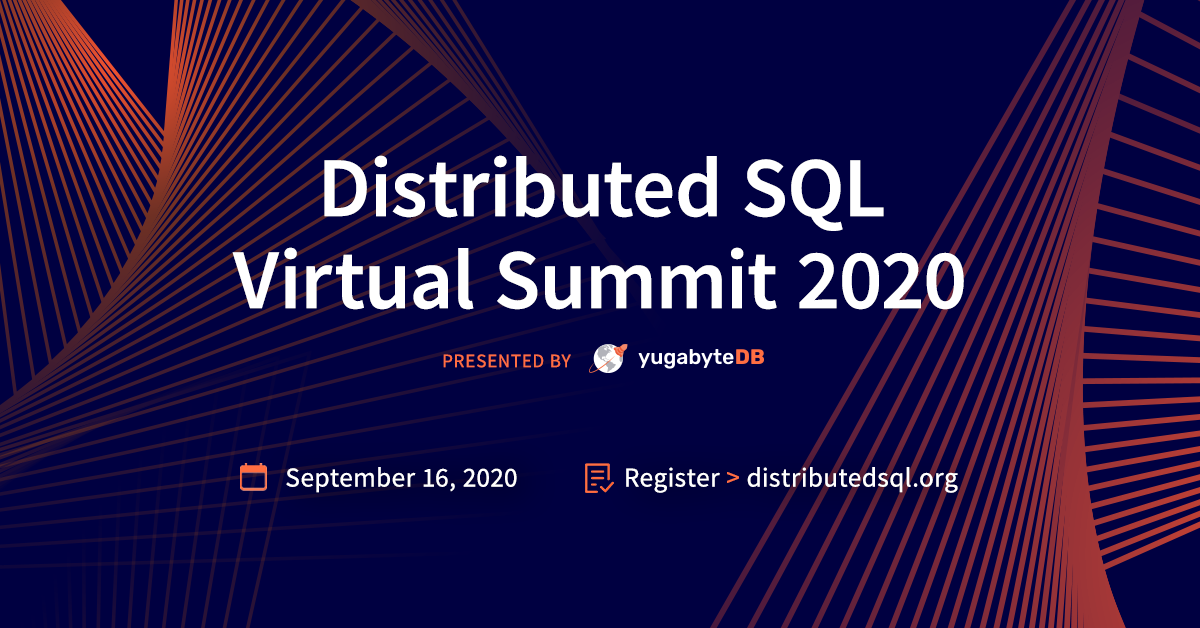
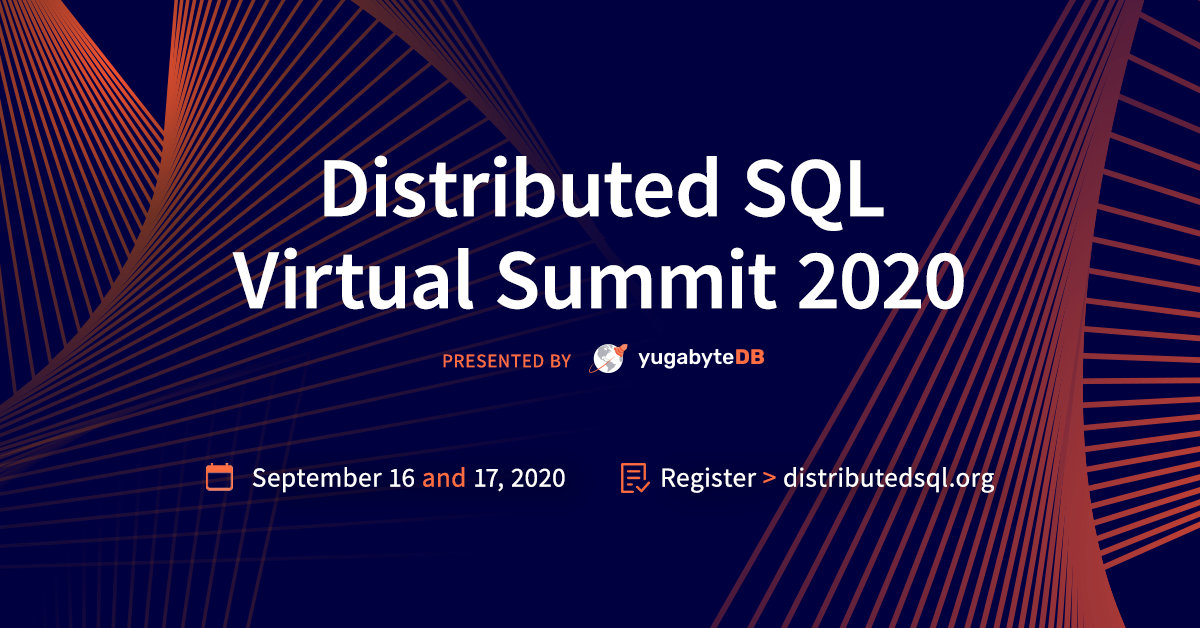
Update dates for distributedsql conference

Changed region(s): [[0.1542, 0.7261, 0.8325, 0.7866]]

diff --git a/src/assets/scss/layout/_aside.scss b/src/assets/scss/layout/_aside.scss
@@ -111,7 +111,7 @@ aside.topics {
     .register--aside {
         background: transparent linear-gradient(142deg, #AFBAF9 0%, #CA73FF 100%) 0% 0% no-repeat padding-box;
         margin-left: auto;
-        width: 700px;
+        width: 600px;
         margin-top: -316px;
         padding: 90px 65px;
         min-height: 600px;
@@ -126,7 +126,9 @@ aside.topics {
             font-weight: 400;
             font-size: 22px;
             height: 70px;
-            padding: 20px 30px;
+            // padding: 20px 30px;
+            font-size: 18px;
+            padding: 10px 30px;
             
             &::-webkit-input-placeholder {
                 color: #141920;
@@ -150,6 +152,7 @@ aside.topics {
         &.confirmation {
             color: #FFFFFF;
             padding: 96px 93px 60px;
+            width: 700px;
 
             svg {
                 fill: #FFFFFF;

diff --git a/src/components/Confirmation.js b/src/components/Confirmation.js
@@ -23,6 +23,9 @@ const EVENT_OBJ = {
     'dateTime': '2020-09-16T14:00:00-07:00',
     'timeZone': 'America/Los_Angeles'
   },
+  'recurrence': [
+    "RRULE:FREQ=DAILY;UNTIL=20200916T170000Z",
+  ],
   'reminders': {
     'useDefault': false,
     'overrides': [
@@ -108,7 +111,7 @@ const Confirmation = (props) => {
                 <div className="event" onClick={handleCalendarClick}>
                   <div className="event-details">
                     {!eventAdded &&
-                      <small>Event - 16th Sept | 10am - 2pm PST</small>
+                      <small>Event - 16th to 17th Sept | 10am - 2pm PST</small>
                     }
                     <div className="event-title">{eventAdded ?
                       'Event has been added to your calendar!' :

diff --git a/src/components/RegisterBanner.js b/src/components/RegisterBanner.js
@@ -44,7 +44,7 @@ const RegisterBanner = ({ noText }) => (
                 <div className="container">
                   <ul className="details">
                     <li>
-                      <h3>September 16 <small>2020</small></h3>                    
+                      <h3>September 16 - 17 <small>2020</small></h3>                    
                     </li>
                     <li>
                         <h3>10am – 2pm <span><small>Pacific</small></span></h3>

diff --git a/src/components/Banner.js b/src/components/Banner.js
@@ -56,7 +56,7 @@ const Banner = (props) => (
                 <ul className="details">
                   <li>
                     <div>
-                      <h3>September 16</h3>
+                      <h3>September 16 - 17</h3>
                       <small>2020</small>
                     </div>
                   </li>
